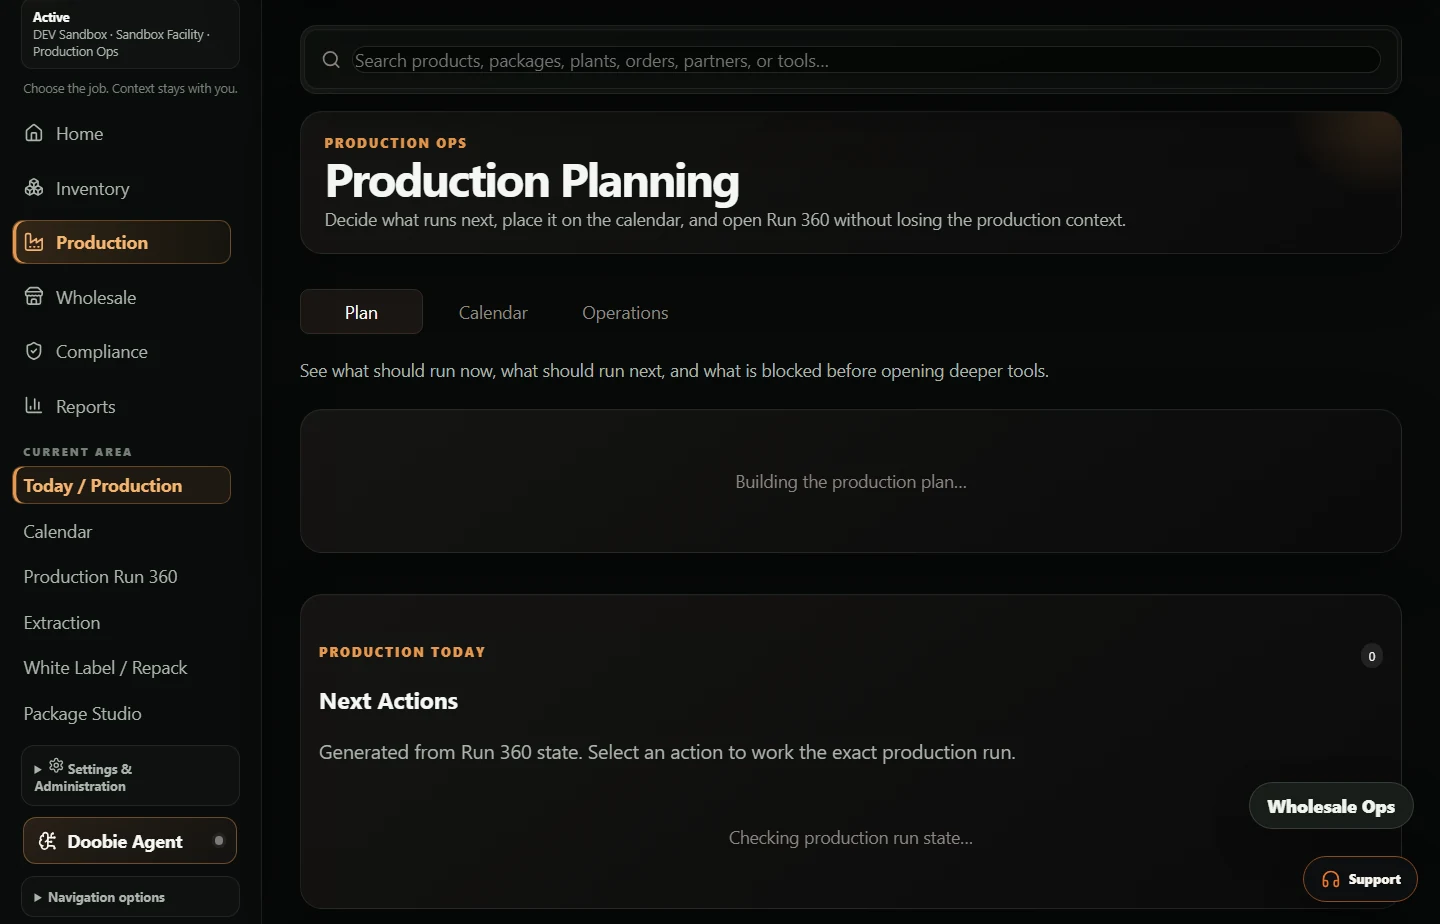
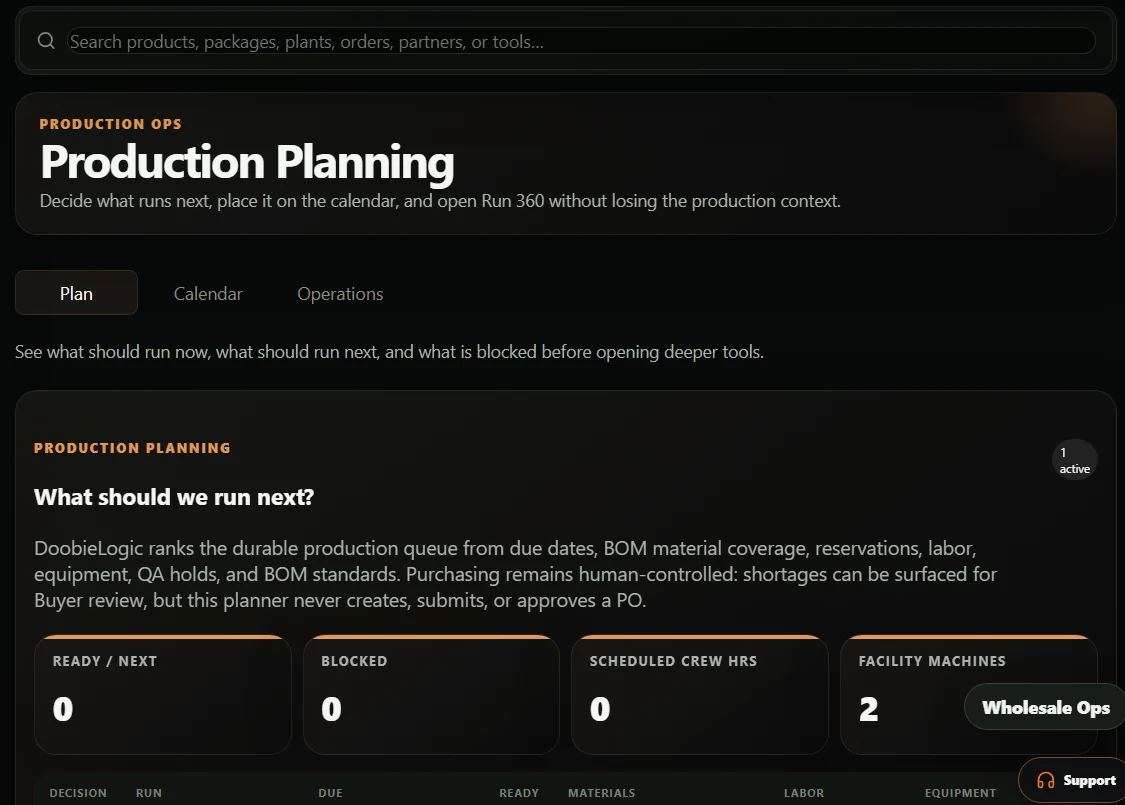
Expand help center coverage and product captures

diff --git a/frontend/src/lib/helpContent.ts b/frontend/src/lib/helpContent.ts
@@ -310,6 +310,80 @@ export const helpArticles: HelpArticle[] = [
     {title:"Calculate equivalency",steps:["Open MA Flower Equivalency.","Choose the applicable product form.","Enter the required package and potency values.","Review the calculated equivalency.","Confirm the result against your current compliance procedure before using it operationally."]}
   ],["/help/compliance","/help/compliance/qa"]),
 
+
+  article("/help/production/inventory","production","Production Inventory","Review materials and packages available to production, including commitments, rooms, holds, and usable quantity.","Production Ops → Inventory → Materials","production",[
+    "Production inventory is the same durable inventory system used by downstream runs and Package Studio.",
+    "Available quantity accounts for active reservations and commitments."
+  ],[
+    {title:"Review materials",steps:["Switch to Production Ops.","Open Inventory → Materials.","Filter by room, material type, status, or product.","Review on-hand, available, reserved, and hold context before assigning material to a run."]},
+    {title:"Take action",body:"Use package-level actions for moves, holds, releases, adjustments, transfers, labels, audits, and Package Studio when your permissions allow them."}
+  ],["/help/production/inventory/transfers","/help/production/products","/help/production/run-360"]),
+
+  article("/help/production/inventory/transfers","production","Production Inventory Transfers","Move production packages between licensed facilities while preserving package identity, quantities, manifest context, and receiving history.","Production Ops → Inventory → Transfers","production",[
+    "Transfers operate on physical packages, not product summary rows.",
+    "Held, quarantined, failed, or unavailable packages must be resolved before transfer."
+  ],[
+    {title:"Start a transfer",steps:["Open Production Ops → Inventory → Transfers.","Select the source packages.","Choose the destination facility and review quantities.","Enter required manifest or transport context.","Review eligibility before posting or dispatching the transfer."]},
+    {title:"Receive and reconcile",steps:["Open the transfer at the destination.","Verify package identity and quantity against the physical shipment.","Receive through the supported workflow.","Resolve discrepancies before closing the transfer."]}
+  ],["/help/production/inventory","/help/inventory/transfers","/help/compliance/traceability"]),
+
+  article("/help/production/package-360","production","Production Package 360","Inspect a production package across balance, location, reservations, source history, status, and downstream use.","Production Ops → Inventory → Package 360","production",[
+    "Open Package 360 when the question is about one physical package or lot.",
+    "Use Product 360 or Product Master when the question is about a reusable product identity."
+  ],[
+    {title:"Open a package",steps:["Open Production Ops → Inventory → Package 360.","Search or scan the package identifier.","Review quantity, location, status, commitments, and source context.","Follow lineage or related run links when investigating where the material came from or went."]}
+  ],["/help/production/inventory","/help/package-studio","/help/inventory/package-360"]),
+
+  article("/help/production/products","production","Production Products","Maintain the product master used by production planning, package outputs, BOM context, reporting, and downstream inventory.","Production Ops → Inventory → Products","production",[
+    "Product records describe what the material is. Package records describe a specific physical quantity of it.",
+    "Naming and units should stay consistent because planning and package workflows reuse these identities."
+  ],[
+    {title:"Review the product master",steps:["Open Production Ops → Inventory → Products.","Find the product by name or SKU.","Review type, unit, active status, and other production fields.","Update only supported master-data fields and verify downstream workflows after the change."]}
+  ],["/help/production/inventory","/help/package-studio","/help/production/run-360"]),
+
+  article("/help/production/inventory-audits","production","Production Inventory Audits","Count production materials and packages in resumable audit sessions without losing the expected-versus-counted trail.","Production Ops → Inventory → Inventory Audits","production",[
+    "Audit sessions can pause, resume, recount, and reconcile.",
+    "Define the facility and count scope before scanning so the expected population is clear."
+  ],[
+    {title:"Run the count",steps:["Open Production Ops → Inventory → Inventory Audits.","Start or resume the audit for the intended scope.","Scan or select each package and record the physical count.","Pause safely when the floor work stops.","Recount discrepancies, review evidence, and complete only after reconciliation."]}
+  ],["/help/inventory/audits","/help/production/inventory","/help/compliance/traceability"]),
+
+  article("/help/wholesale/inventory","wholesale","Wholesale Inventory","Review released, sellable lots and understand why inventory is available, reserved, or blocked from the commercial catalog.","Wholesale → Inventory","wholesale",[
+    "Wholesale eligibility requires released inventory, passed COA context, and positive uncommitted quantity.",
+    "Blocked lots stay visible for investigation without silently becoming sellable."
+  ],[
+    {title:"Review sellable inventory",steps:["Open Wholesale → Inventory.","Review available and reserved quantity by lot.","Inspect COA/release state and blocked reasons.","Open the source package or production context when a lot needs investigation."]}
+  ],["/help/wholesale","/help/wholesale/orders","/help/compliance/traceability"]),
+
+  article("/help/wholesale/customers","wholesale","Wholesale Customers","Maintain retailer and partner account context, licensing, contacts, payment terms, and the relationship behind commercial orders.","Wholesale → Customers","wholesale",[
+    "Customer records should represent the licensed account, not just an individual contact.",
+    "Keep license and payment context current before relying on it for order-to-cash decisions."
+  ],[
+    {title:"Work a customer account",steps:["Open Wholesale → Customers.","Search for the account.","Review license, contacts, terms, activity, and linked commercial history.","Update supported customer fields or open related opportunities/orders from the account context."]}
+  ],["/help/wholesale/pipeline","/help/wholesale/orders","/help/wholesale/accounting"]),
+
+  article("/help/wholesale/pipeline","wholesale","Wholesale Pipeline","Track opportunities and commercial follow-up before an opportunity becomes a confirmed sales order.","Wholesale → Pipeline","wholesale",[
+    "Pipeline work belongs before order confirmation; confirmed demand moves into the canonical sales-order workflow.",
+    "Keep expected value, stage, owner, and next action current so the pipeline remains useful."
+  ],[
+    {title:"Review the pipeline",steps:["Open Wholesale → Pipeline.","Review opportunities by stage and next action.","Open the customer context before changing an opportunity.","Advance or close the opportunity based on actual commercial progress.","Convert approved demand through the supported quote/order workflow rather than duplicating it manually."]}
+  ],["/help/wholesale/customers","/help/wholesale/orders"]),
+
+  article("/help/wholesale/accounting","wholesale","Wholesale Accounting","Review invoices, open balances, A/R aging, payment status, and accounting synchronization from the wholesale workflow.","Wholesale → Accounting","wholesale",[
+    "Accounting follows the canonical sales order and fulfillment records.",
+    "A saved accounting connection is not treated as healthy until provider validation succeeds."
+  ],[
+    {title:"Review finance handoffs",steps:["Open Wholesale → Accounting.","Review invoices and open balances.","Prioritize overdue or exception accounts.","Record or synchronize payment information through the supported workflow.","Return to the order-to-cash view to verify the exception clears."]}
+  ],["/help/wholesale/orders","/help/wholesale/customers","/help/settings/integrations"]),
+
+  article("/help/wholesale/storefront","wholesale","Wholesale Storefront","Publish a branded wholesale catalog, control eligible listings, and review customer order requests before they become commercial sales orders.","Wholesale → Storefront","wholesale",[
+    "Only eligible inventory should be published to the storefront.",
+    "Customer submissions require review before they become canonical sales orders or reserve inventory."
+  ],[
+    {title:"Manage the catalog",steps:["Open Wholesale → Storefront.","Review storefront identity and publication status.","Choose eligible products or sales units for the catalog.","Preview the customer-facing storefront before publishing changes."]},
+    {title:"Review incoming requests",steps:["Open pending storefront orders.","Verify customer and license context.","Review requested items and availability.","Approve valid requests into the commercial order workflow or resolve the request without creating duplicate demand."]}
+  ],["/help/wholesale","/help/wholesale/orders","/help/wholesale/inventory"]),
+
   article("/help/reports/sales-category-trends","reports","Sales & Category Trends","Review retail sales mix, velocity, category performance, and changing demand from the active data source.","Reports → Sales & Category Trends","buying",[
     "Trend views depend on the freshness and completeness of the active retail source."
   ],[
@@ -369,8 +443,8 @@ export const helpCategories: HelpCategory[] = [
   {id:"buying",title:"Buying",description:"Recommendations, purchase orders, budget, delivery performance, and planning policy.",articles:["/help/buying","/help/buying/recommendations","/help/buying/purchase-orders","/help/buying/budget","/help/buying/delivery-performance","/help/buying/planning-settings"]},
   {id:"inventory",title:"Inventory",description:"Receiving, transfers, Product 360, Package 360, audits, aging, and catalog administration.",articles:["/help/inventory","/help/inventory/receiving","/help/inventory/transfers","/help/inventory/product-360","/help/inventory/package-360","/help/inventory/audits","/help/inventory/slow-movers","/help/inventory/catalog-admin"]},
   {id:"cultivation",title:"Cultivation",description:"Grow operations and the harvest-to-post-harvest handoff.",articles:["/help/cultivation","/help/cultivation/post-harvest"]},
-  {id:"production",title:"Production & Extraction",description:"Production planning, Run 360, extraction, repack, and package creation.",articles:["/help/production","/help/production/calendar","/help/production/run-360","/help/extraction","/help/white-label-repack","/help/package-studio"]},
-  {id:"wholesale",title:"Wholesale & Warehouse",description:"Sellable inventory, orders, fulfillment, storefront operations, and pick/pack.",articles:["/help/wholesale","/help/wholesale/orders","/help/wholesale/warehouse-pick-pack"]},
+  {id:"production",title:"Production & Extraction",description:"Production inventory, planning, Run 360, extraction, repack, and package creation.",articles:["/help/production","/help/production/inventory","/help/production/inventory/transfers","/help/production/package-360","/help/production/products","/help/production/inventory-audits","/help/production/calendar","/help/production/run-360","/help/extraction","/help/white-label-repack","/help/package-studio"]},
+  {id:"wholesale",title:"Wholesale & Warehouse",description:"Sellable inventory, customers, pipeline, orders, fulfillment, accounting, storefront operations, and pick/pack.",articles:["/help/wholesale","/help/wholesale/inventory","/help/wholesale/orders","/help/wholesale/warehouse-pick-pack","/help/wholesale/customers","/help/wholesale/pipeline","/help/wholesale/accounting","/help/wholesale/storefront"]},
   {id:"compliance",title:"Compliance",description:"Traceability, governed state actions, labels, Q&A, naming, and Massachusetts equivalency.",articles:["/help/compliance","/help/compliance/qa","/help/compliance/traceability","/help/compliance/state-actions","/help/compliance/label-studio","/help/compliance/product-name-mapper","/help/compliance/ma-flower-equivalency"]},
   {id:"reports",title:"Reports",description:"Sales and category trends plus executive reporting.",articles:["/help/reports/sales-category-trends","/help/reports/executive"]},
   {id:"settings",title:"Settings & Integrations",description:"Locations, data imports, users, permissions, Metrc, accounting, and provider connections.",articles:["/help/settings/location","/help/settings/imports-data","/help/settings/admin","/help/settings/integrations"]},

diff --git a/frontend/src/lib/helpSeo.ts b/frontend/src/lib/helpSeo.ts
@@ -20,12 +20,22 @@ export const helpSeoRoutes: Record<string, { title: string; description: string;
   "/help/cultivation": { title: "Cultivation overview | DoobieLogic Help", description: "Work rooms, plants, groups, harvest handoffs, lineage, cost, and regulatory context from the living grow workspace.", kind: "article" },
   "/help/cultivation/post-harvest": { title: "Post-Harvest | DoobieLogic Help", description: "Track harvested material through drying, trimming, cure, testing, hold, and release.", kind: "article" },
   "/help/production": { title: "Production overview | DoobieLogic Help", description: "Plan work, schedule runs, manage materials, and move completed output into downstream inventory.", kind: "article" },
+  "/help/production/inventory": { title: "Production Inventory | DoobieLogic Help", description: "Review materials and packages available to production, including commitments, rooms, holds, and usable quantity.", kind: "article" },
+  "/help/production/inventory/transfers": { title: "Production Inventory Transfers | DoobieLogic Help", description: "Move production packages between licensed facilities while preserving identity, quantities, manifest context, and receiving history.", kind: "article" },
+  "/help/production/package-360": { title: "Production Package 360 | DoobieLogic Help", description: "Inspect a production package across balance, location, reservations, source history, status, and downstream use.", kind: "article" },
+  "/help/production/products": { title: "Production Products | DoobieLogic Help", description: "Maintain the product master used by production planning, package outputs, reporting, and downstream inventory.", kind: "article" },
+  "/help/production/inventory-audits": { title: "Production Inventory Audits | DoobieLogic Help", description: "Count production materials and packages in resumable audit sessions with expected-versus-counted history.", kind: "article" },
   "/help/production/calendar": { title: "Production Calendar | DoobieLogic Help", description: "Review scheduled production work across time and open the run that owns the work.", kind: "article" },
   "/help/production/run-360": { title: "Production Run 360 | DoobieLogic Help", description: "Inspect and work one run from planned inputs through actual output, variance, quality, and completion.", kind: "article" },
   "/help/extraction": { title: "Extraction | DoobieLogic Help", description: "Plan and track extraction work from source material through process stages, yield, output, QA, and downstream inventory.", kind: "article" },
   "/help/white-label-repack": { title: "White Label / Repack | DoobieLogic Help", description: "Model and execute repack or private-label work while keeping bulk source, packaging, labor, yield, and customer context together.", kind: "article" },
   "/help/package-studio": { title: "Package Studio | DoobieLogic Help", description: "Create and transform packages with source, output, quantity, and compliance context preserved.", kind: "article" },
   "/help/wholesale": { title: "Wholesale Ops overview | DoobieLogic Help", description: "Move sellable inventory through customer demand, orders, fulfillment, storefront, accounting, and collection context.", kind: "article" },
+  "/help/wholesale/inventory": { title: "Wholesale Inventory | DoobieLogic Help", description: "Review released sellable lots and understand why inventory is available, reserved, or blocked from the wholesale catalog.", kind: "article" },
+  "/help/wholesale/customers": { title: "Wholesale Customers | DoobieLogic Help", description: "Maintain retailer accounts, licensing, contacts, payment terms, and commercial relationship context.", kind: "article" },
+  "/help/wholesale/pipeline": { title: "Wholesale Pipeline | DoobieLogic Help", description: "Track opportunities and commercial follow-up before demand becomes a confirmed sales order.", kind: "article" },
+  "/help/wholesale/accounting": { title: "Wholesale Accounting | DoobieLogic Help", description: "Review invoices, open balances, A/R aging, payment status, and accounting synchronization.", kind: "article" },
+  "/help/wholesale/storefront": { title: "Wholesale Storefront | DoobieLogic Help", description: "Publish a branded wholesale catalog and review customer order requests before they become sales orders.", kind: "article" },
   "/help/wholesale/orders": { title: "Orders & Fulfillment | DoobieLogic Help", description: "Create, approve, allocate, and progress wholesale orders with customer and inventory context together.", kind: "article" },
   "/help/wholesale/warehouse-pick-pack": { title: "Warehouse Pick / Pack | DoobieLogic Help", description: "Turn an approved order into physically verified fulfillment without losing package identity.", kind: "article" },
   "/help/compliance": { title: "Compliance overview | DoobieLogic Help", description: "Keep traceability, state actions, labels, regulatory Q&A, naming, and Massachusetts flower equivalency close to operational work.", kind: "article" },
